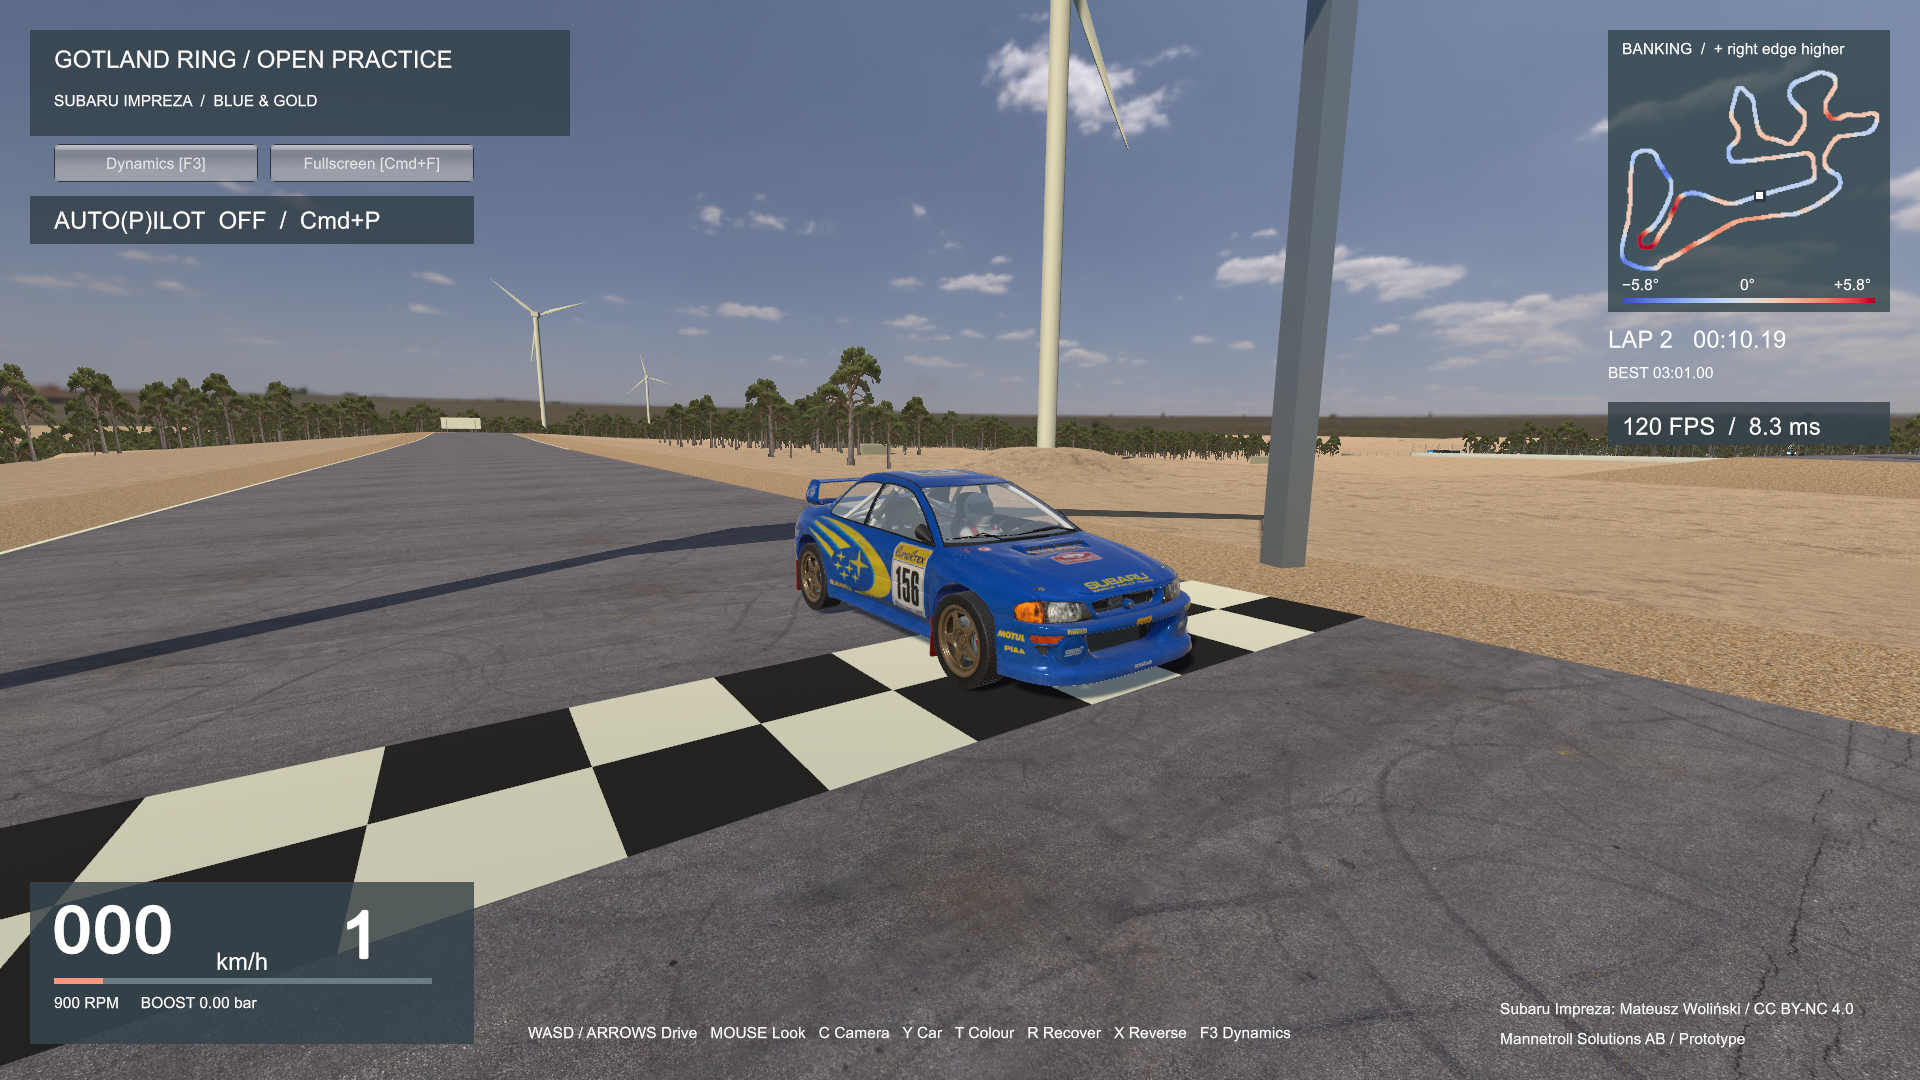
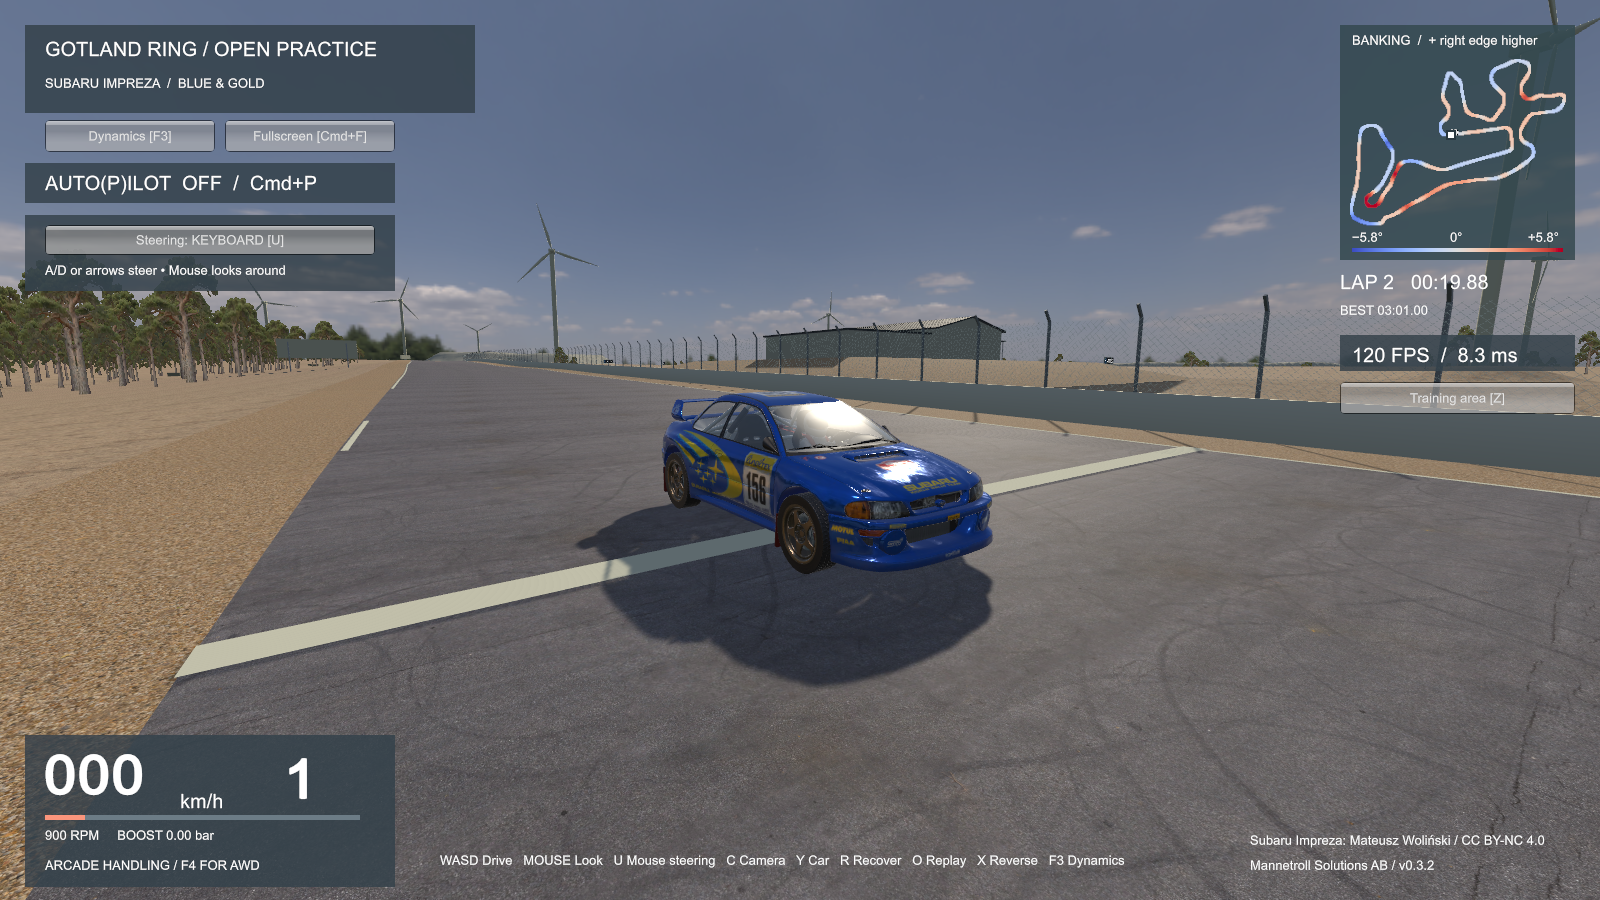
Refresh v0.3.2 screenshots below the README title

diff --git a/README.md b/README.md
@@ -1,5 +1,11 @@
 # Gotland Ring / Impreza
 
+![v0.3.2 cockpit with live speed, RPM and gear instruments](docs/cockpit.png)
+
+| Impreza Rally — rally blue | Subaru Impreza — blue-and-gold livery |
+|---|---|
+| ![Impreza Rally in v0.3.2](docs/front.png) | ![Subaru Impreza in v0.3.2](docs/subaru-impreza.png) |
+
 **A rally Impreza. A Baltic circuit. An open practice session.**
 
 [Download Windows EXE](https://github.com/mannetroll/GotlandRing/releases/download/v0.3.2/GotlandRing-Portable.exe) | [Download macOS ZIP (Apple Silicon)](https://github.com/mannetroll/GotlandRing/releases/download/v0.3.2/GotlandRing-macOS-arm64.zip) | [Release v0.3.2](https://github.com/mannetroll/GotlandRing/releases/tag/v0.3.2)
@@ -13,10 +19,6 @@ Press **U** for mouse steering; **W/Up** and **S/Down** remain the pedals. **Ctr
 The stock/manual GT baseline has four driven wheels, individual suspension and physical contact with the banked circuit. Its five-speed gearbox shifts automatically. See [physics assumptions and validation](docs/AWD-PHYSICS.md).
 
 > **Unofficial fan-made prototype.** This project is not affiliated with, sponsored by, or endorsed by GotlandRing, Subaru Corporation, or their affiliates. GotlandRing, Subaru, Impreza, and other marks mentioned in this project remain the property of their respective owners.
-
-![Impreza Rally in Splash red](docs/front.png)
-
-![Subaru Impreza in blue-and-gold livery](docs/subaru-impreza.png)
 
 Two selectable Impreza models. Press **Y** to switch between them during a drive.
 
